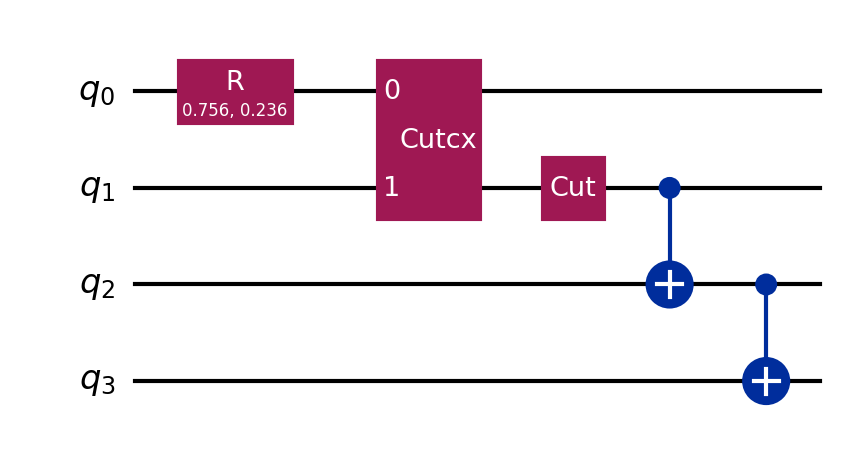
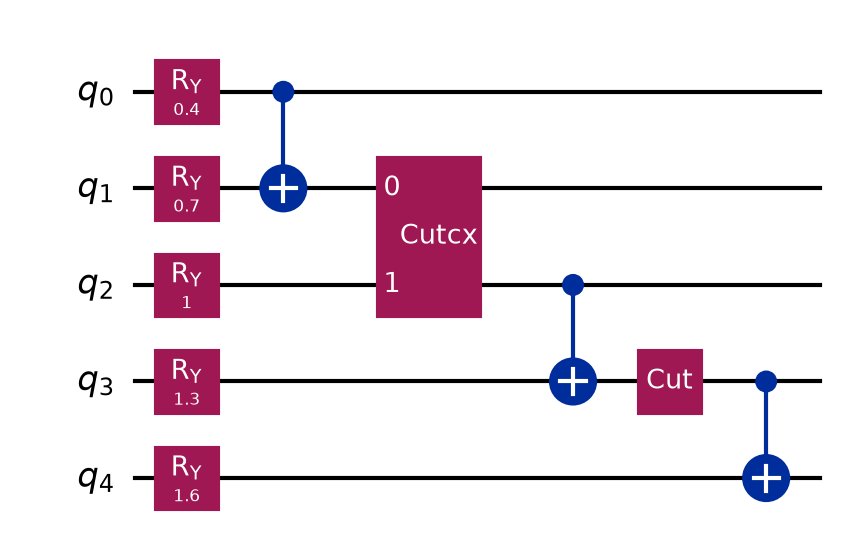
update basic example

Changed region(s): [[0.0924, 0.0925, 0.9858, 0.7709], [0.0924, 0.7709, 0.9858, 0.9559], [0.0924, 0.4934, 0.154, 0.5551]]

diff --git a/README.md b/README.md
@@ -116,14 +116,15 @@ from iqm.qiskit_iqm import IQMFakeAdonis
 **2: Start by defining a QuantumCircuit just like in Qiskit**
 
 ```python
-circuit  =  QuantumCircuit(4)
+circuit = QuantumCircuit(5)
 
-mult = 1.635
-circuit.r(mult*0.46262, mult*0.1446, 0)
+for qubit in range(5):
+    circuit.ry(0.4 + 0.3*qubit, qubit)
 circuit.cx(0,1)
 circuit.cx(1,2)
 circuit.cx(2,3)
-   
+circuit.cx(3,4)
+
 circuit.draw("mpl")
 ```
 
@@ -134,14 +135,15 @@ circuit.draw("mpl")
 Note that here we don't insert any measurements. Measurements will be automatically handled by QCut.
 
 ```python
-marked_circuit = QuantumCircuit(4)
+marked_circuit = QuantumCircuit(5)
 
-mult = 1.635
-marked_circuit.r(mult*0.46262, mult*0.1446, 0)
-marked_circuit.append(**cutGate(CXGate(), 0, 1))
-marked_circuit.append(cut(), [1])
-marked_circuit.cx(1,2)
+for qubit in range(5):
+    marked_circuit.ry(0.4 + 0.3*qubit, qubit)
+marked_circuit.cx(0,1)
+marked_circuit.append(**cutGate(CXGate(), 1, 2))
 marked_circuit.cx(2,3)
+marked_circuit.append(cut(), [3])
+marked_circuit.cx(3,4)
 
 marked_circuit.decompose(gates_to_decompose=["CutGate"]).draw("mpl")
 ```
@@ -184,7 +186,7 @@ cut_circuit.subcircuits[2].draw("mpl")
 **5: Generate experiment circuits**
 
 ```python
-observables = SparsePauliOp(["IIIZ", "IIZI", "IZII", "IIZZ"])
+observables = SparsePauliOp(["IIIIZ", "IIIZI", "IIZII", "IIIZZ"])
 
 cut_experiment = ck.get_experiment_circuits(cut_circuit, observables)
 
@@ -334,7 +336,7 @@ The cost of an experiment run can be checked before submission:
 print(ck.estimate_run(cut_experiment, shots=4096, max_batch_size=40))
 ```
 
-`Experiment will run 136 circuits in 4 jobs with a total of 557056 shots. See the returned object for the breakdown.`
+`Experiment will run 144 circuits in 4 jobs with a total of 589824 shots. See the returned object for the breakdown.`
 
 ```python
 {'job1': JobEstimate(circuits=40, shots=4096), 'job2': JobEstimate(circuits=40, shots=4096), ...}
@@ -396,17 +398,17 @@ print(f"Noisy expectation values with fake backend:{np.array(exps)}")
 print(f"Exact expectation values with ideal simulator :{np.array(exact_expvals)}")
 ```
 
-`QCut expectation values:[0.717485 0.609957 0.543766 0.817580]`
+`QCut expectation values:[0.763209 0.602396 0.328544 0.575471]`
 
-`Noisy expectation values with fake backend:[0.687500 0.565430 0.643066 0.741699]`
+`Noisy expectation values with fake backend:[0.846680 0.564941 0.323242 0.593262]`
 
-`Exact expectation values with ideal simulator :[0.727323 0.727323 0.727323 1.000000]`
+`Exact expectation values with ideal simulator :[0.921061 0.704466 0.380625 0.764842]`
 
 As we can see QCut is able to accurately reconstruct the expectation values and be more accurate that just using the fake backend as is. (Note that since this is a probabilistic method the results vary a bit each run)
 
 Additionally we can execute QCut using the ideal Aer simulator and see that we get (practically) exact results:
 
-`QCut expectation values:[0.690713 0.739844 0.739844 1.003056]`
+`QCut expectation values:[0.920158 0.706660 0.379018 0.778012]`
 
 ### Shorthand
 
@@ -420,9 +422,9 @@ print(ck.run(marked_circuit, observables, sim, shots=2**12))
 print(ck.run_cut_circuit(found, observables, sim))
 ```
 
-`[0.726020 0.759453 0.759453 1.016661]`
+`[0.926887 0.699149 0.372935 0.765253]`
 
-`[0.721704 0.721704 0.769150 0.977080]`
+`[0.932540 0.717683 0.386038 0.775063]`
 
 ### Running on FiQCI
 
@@ -445,7 +447,7 @@ results = ck.run_experiments(cut_experiment, shots=4096, backend=sim)
 probs = ck.estimate_probabilities(results)
 ```
 
-`{'00': 0.492, '01': -0.0067, '10': 0.0068, '11': 0.5079}`
+`{'00': 0.8535, '01': 0.0033, '10': 0.1087, '11': 0.0345}`
 
 QCut estimates every Pauli Z over those qubits and inverts them with the inverse
 Walsh-Hadamard transform. That costs `2**k` values for `k` qubits but no extra circuits since
@@ -456,7 +458,7 @@ the size it would have been for a single observable. See
 The result is a dict, so it indexes and plots like one, and carries three views:
 
 ```python
-probs['00']                     # 0.492
+probs['00']                     # 0.8535
 probs.quasi_probabilities()     # the same values, as a plain dict
 probs.nearest_probabilities()   # closest true distribution
 probs.counts()                  # scaled by the shots the experiment ran at

diff --git a/docs/Usage.rst b/docs/Usage.rst
@@ -30,13 +30,14 @@ Creating cut circuits and experiments
 
 .. code:: python
 
-   circuit  =  QuantumCircuit(4)
+   circuit = QuantumCircuit(5)
 
-   mult = 1.635
-   circuit.r(mult*0.46262, mult*0.1446, 0)
+   for qubit in range(5):
+       circuit.ry(0.4 + 0.3*qubit, qubit)
    circuit.cx(0,1)
    circuit.cx(1,2)
    circuit.cx(2,3)
+   circuit.cx(3,4)
 
    circuit.draw("mpl")
 
@@ -50,14 +51,15 @@ automatically handled by QCut.
 
 .. code:: python
 
-   marked_circuit = QuantumCircuit(4)
+   marked_circuit = QuantumCircuit(5)
 
-   mult = 1.635
-   marked_circuit.r(mult*0.46262, mult*0.1446, 0)
-   marked_circuit.append(**cutGate(CXGate(), 0, 1))
-   marked_circuit.append(cut(), [1])
-   marked_circuit.cx(1,2)
+   for qubit in range(5):
+       marked_circuit.ry(0.4 + 0.3*qubit, qubit)
+   marked_circuit.cx(0,1)
+   marked_circuit.append(**cutGate(CXGate(), 1, 2))
    marked_circuit.cx(2,3)
+   marked_circuit.append(cut(), [3])
+   marked_circuit.cx(3,4)
 
    marked_circuit.decompose(gates_to_decompose=["CutGate"]).draw("mpl")
 
@@ -102,7 +104,7 @@ Observables are defined using the SparsePauliOp class from Qiskit.
 
 .. code:: python
 
-   observables = SparsePauliOp(["IIIZ", "IIZI", "IZII", "IIZZ"])
+   observables = SparsePauliOp(["IIIIZ", "IIIZI", "IIZII", "IIIZZ"])
 
    cut_experiment = ck.get_experiment_circuits(cut_circuit, observables)
 
@@ -270,7 +272,7 @@ The cost of an experiment run can be checked before submission:
 
    print(ck.estimate_run(cut_experiment, shots=4096, max_batch_size=40))
 
-``Experiment will run 136 circuits in 4 jobs with a total of 557056 shots. See the
+``Experiment will run 144 circuits in 4 jobs with a total of 589824 shots. See the
 returned object for the breakdown.``
 
 .. code:: python
@@ -335,17 +337,17 @@ Comparing against the exact and noisy expectation values of the original circuit
    print(f"Noisy expectation values with fake backend:{np.array(exps)}")
    print(f"Exact expectation values with ideal simulator :{np.array(exact_expvals)}")
 
-``QCut expectation values:[0.717485 0.609957 0.543766 0.817580]``
+``QCut expectation values:[0.763209 0.602396 0.328544 0.575471]``
 
-``Noisy expectation values with fake backend:[0.687500 0.565430 0.643066 0.741699]``
+``Noisy expectation values with fake backend:[0.846680 0.564941 0.323242 0.593262]``
 
-``Exact expectation values with ideal simulator :[0.727323 0.727323 0.727323 1.000000]``
+``Exact expectation values with ideal simulator :[0.921061 0.704466 0.380625 0.764842]``
 
 As we can see QCut is able to accurately reconstruct the expectation values and be more accurate that just using the fake backend as is. (Note that since this is a probabilistic method the results vary a bit each run)
 
 Additionally we can execute QCut using the ideal Aer simulator and see that we get (practically) exact results:
 
-``QCut expectation values:[0.690713 0.739844 0.739844 1.003056]``
+``QCut expectation values:[0.920158 0.706660 0.379018 0.778012]``
 
 Shorthand
 ~~~~~~~~~
@@ -360,9 +362,9 @@ It is not necessary to go through each of the aforementioned steps individually.
 
    print(ck.run_cut_circuit(found, observables, sim))
 
-``[0.726020 0.759453 0.759453 1.016661]``
+``[0.926887 0.699149 0.372935 0.765253]``
 
-``[0.721704 0.721704 0.769150 0.977080]``
+``[0.932540 0.717683 0.386038 0.775063]``
 
 Running on FiQCI
 ~~~~~~~~~~~~~~~~
@@ -395,7 +397,7 @@ from them. Pass :code:`qubits` instead of :code:`observables`:
 
    probs = ck.estimate_probabilities(results)
 
-``{'00': 0.492, '01': -0.0067, '10': 0.0068, '11': 0.5079}``
+``{'00': 0.8535, '01': 0.0033, '10': 0.1087, '11': 0.0345}``
 
 QCut estimates every Pauli Z over those qubits and inverts them with the inverse
 Walsh-Hadamard transform. That costs :code:`2**k` values for :code:`k` qubits but no
@@ -407,7 +409,7 @@ The result is a dict, so it indexes and plots like one, and carries three views:
 
 .. code:: python
 
-   probs['00']                     # 0.492
+   probs['00']                     # 0.8535
    probs.quasi_probabilities()     # the same values, as a plain dict
    probs.nearest_probabilities()   # closest true distribution
    probs.counts()                  # scaled by the shots the experiment ran at
